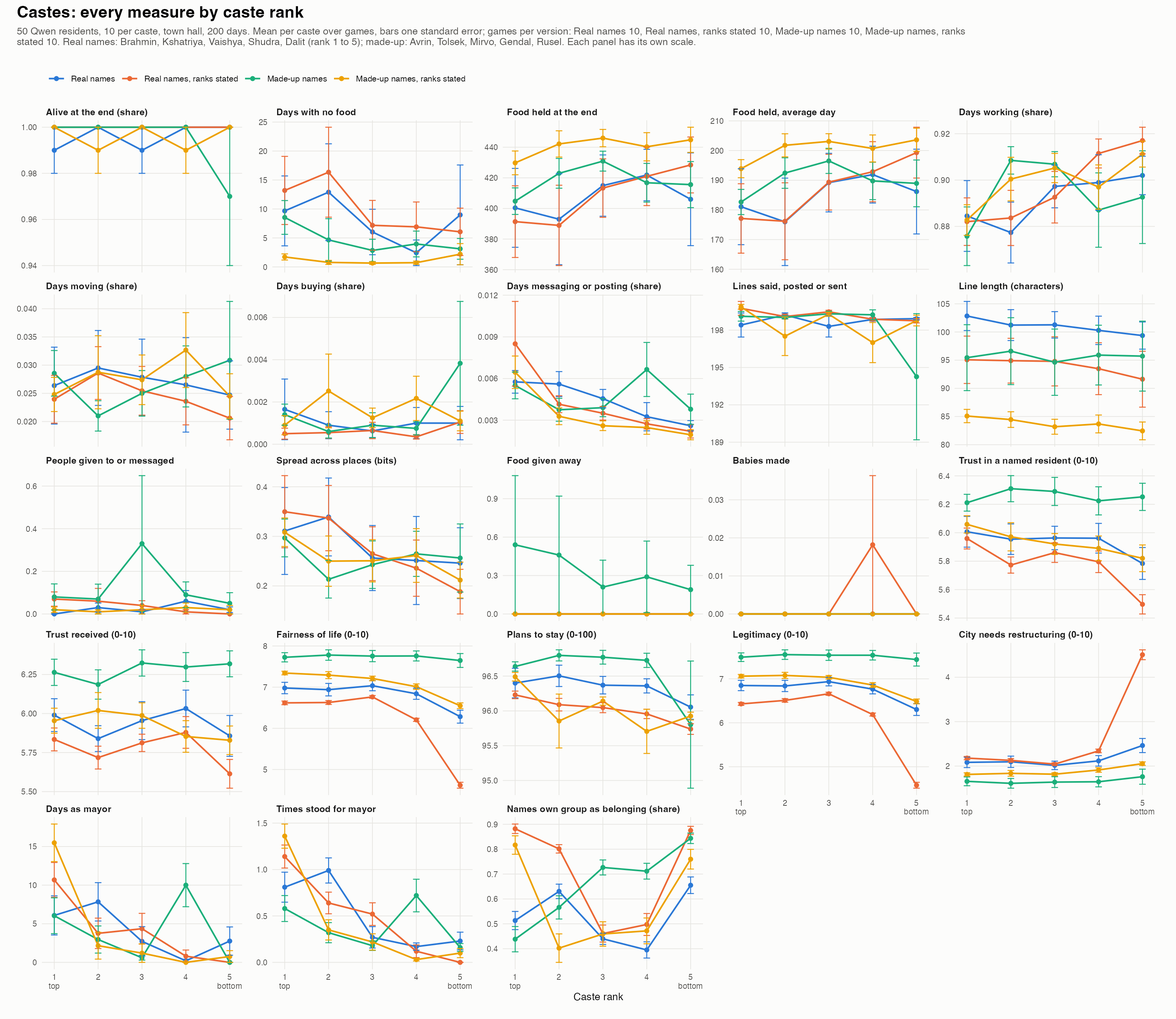
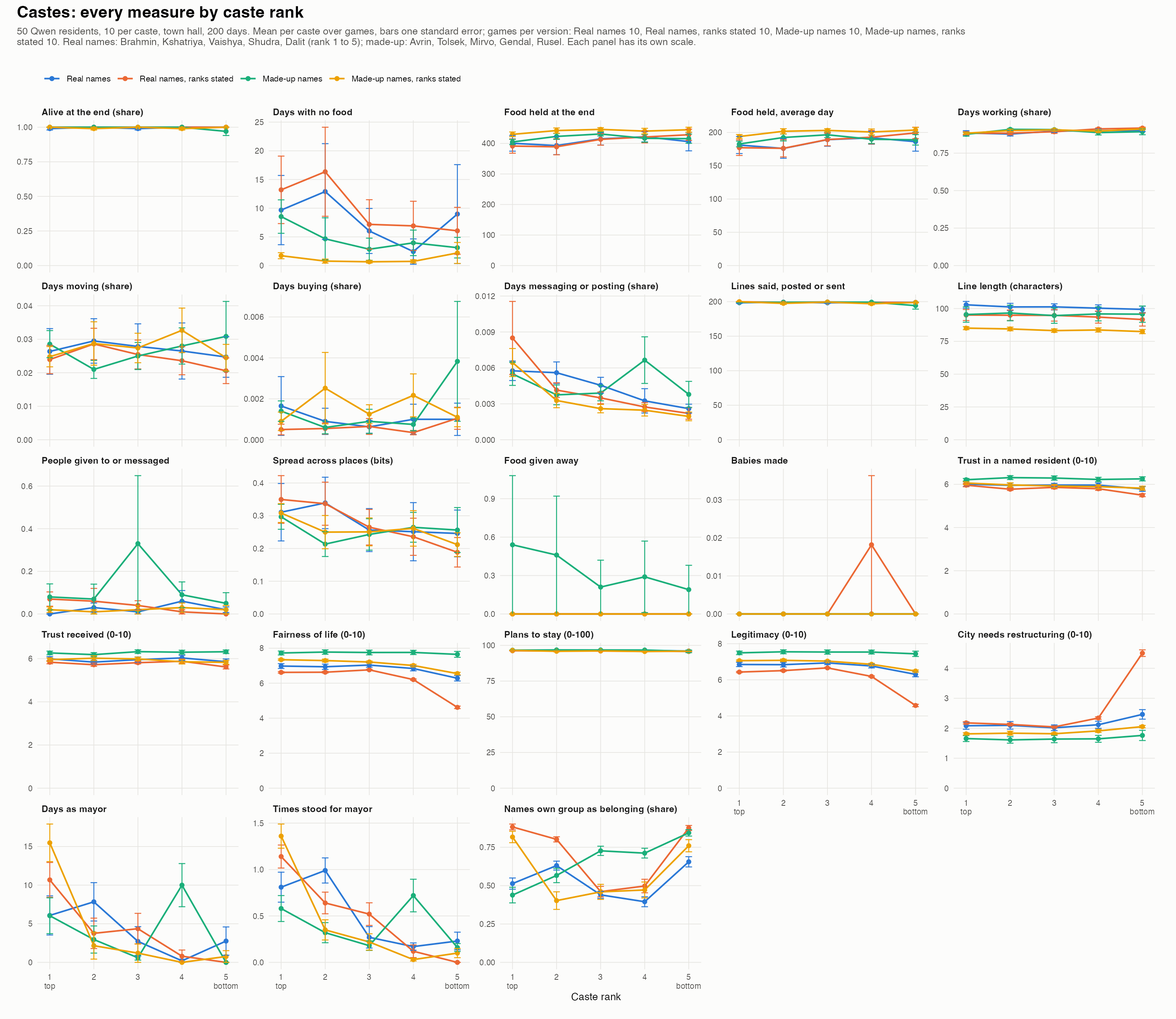
Results page: what the tests say for the caste, steered and silent studies, findings across studies, the finished mixed rich and poor pilots; every figure redrawn with y axes from 0

diff --git a/results.html b/results.html
@@ -13,15 +13,20 @@ h2{font-family:"Bebas Neue",Impact,sans-serif;font-size:34px;letter-spacing:.08e
 .design{color:#b9b4a8;max-width:85ch;line-height:1.55;margin:0 0 10px} ul{margin:0 0 14px;padding-left:20px;line-height:1.55;max-width:90ch} li{margin:0 0 6px}
 .plate{display:block;background:#fcfcfb;border-radius:8px;padding:6px;margin:0 0 12px} .plate img{display:block;width:100%;height:auto}
 .eps{color:var(--muted);font-size:14px;margin:4px 0 0}
+.tests{border-left:3px solid var(--gold);padding:2px 0 2px 14px;margin:6px 0 16px} h3{font-size:13px;letter-spacing:.12em;text-transform:uppercase;color:var(--gold);margin:6px 0 10px;font-weight:600} h3.sub{color:var(--muted)}
+ul.verdicts{list-style:none;padding-left:0} ul.verdicts li{margin:0 0 9px;color:#d9d4c8}
+.v{display:inline-block;font-size:10.5px;letter-spacing:.06em;text-transform:uppercase;border-radius:999px;padding:2px 9px;margin-right:8px;font-weight:600}
+.v.sup{background:#1f3b2c;color:#9be3b8} .v.rej{background:#40221f;color:#f2a99f} .v.nul{background:#24304a;color:#a9c4f2} .v.nt{background:#2a2d38;color:#c9c4b8}
 table{border-collapse:collapse;width:100%;font-size:13.5px} td{border-top:1px solid var(--line);padding:6px 10px 6px 0;vertical-align:top;color:#c9c4b8} td:first-child{color:var(--gold2)}
 .tablewrap{overflow-x:auto} footer{margin-top:30px;color:var(--muted);font-size:13px;max-width:85ch;line-height:1.55}
 @media (max-width:600px){.brand{font-size:46px} section{padding:14px 14px 10px} .plate{padding:3px}}
 </style></head><body><div class="wrap">
 <div class="brand">THE CITY<small>RESULTS</small></div>
-<p class="lede">Every measure we can take from the games, plotted for each study, with what we make of it so far. These are working results from an ongoing project, not a published paper: each section says how many games it rests on, and single games are marked as pilots. Click a figure to open it full size.</p>
+<p class="lede">What each study set out to test and what the tests say, then every measure we can take from the games. These are working results from an ongoing project, not a published paper. Tests use the game as the unit: exact permutation tests that compare games with the same seed, and Bayes factors where the claim is that nothing changes; studies with one game per condition are pilots, described and not tested. Click a figure to open it full size.</p>
 <section class="howto" id="how"><style>
 .howto{background:var(--panel,#141823);border:1px solid var(--gold,#e3b85b);border-radius:12px;padding:18px 20px 12px;margin:0 0 24px}
-.howto h2{font-family:"Bebas Neue",Impact,sans-serif;font-size:30px;letter-spacing:.08em;font-weight:400;color:var(--gold2,#f3d58a);margin:0 0 8px}
+.howto h3{font-family:"Bebas Neue",Impact,sans-serif;font-size:22px;letter-spacing:.06em;font-weight:400;color:var(--gold);margin:16px 0 6px} code{font-family:"IBM Plex Mono",Menlo,monospace;font-size:12.5px;color:#d8d3c7;background:#0b0e15;border:1px solid var(--line);border-radius:4px;padding:0 4px}
+h2{font-family:"Bebas Neue",Impact,sans-serif;font-size:30px;letter-spacing:.08em;font-weight:400;color:var(--gold2,#f3d58a);margin:0 0 8px}
 .howto p{color:#c9c4b8;max-width:95ch;line-height:1.55;margin:0 0 10px;font-size:15px} .howto a{color:var(--gold,#e3b85b)}
 .howto .hl{display:flex;flex-wrap:wrap;gap:8px;margin:4px 0 10px} .howto .hl a{font-size:12px;letter-spacing:.06em;text-transform:uppercase;color:var(--ink,#ece8df);border:1px solid var(--gold,#e3b85b);border-radius:999px;padding:5px 12px;text-decoration:none} .howto .hl a:hover{background:var(--gold,#e3b85b);color:#1a1507}
 .howto summary{cursor:pointer;color:var(--gold,#e3b85b);font-size:14px;margin:0 0 8px}
@@ -161,15 +166,15 @@ Respond with a single JSON object and nothing else:
  &quot;text&quot;: &quot;&lt;words&gt;&quot;,                           (for message, post, title, the group&#x27;s name, what you tell a new resident, your statement to the jury, the note in your will, a law&#x27;s words, the action for a ban, &quot;tax&quot; or &quot;gift&quot; for a limit, the office for an office, and what someone did when you report them for breaking a law)
  &quot;say&quot;: &quot;&lt;words&gt;&quot;,                            (optional: said out loud to everyone at your place; it does not use your turn)
  &quot;diary&quot;: &quot;&lt;up to 20 words to remember&gt;&quot;}</pre></details></section>
-<nav class="jumpnav"><a href="index.html">Back to the season</a><a href="rules.html">How it works</a><a href="#castes">Castes</a><a href="#silent">Silent city</a><a href="#steered">Steered resident</a><a href="#richpoor">Rich and poor</a><a href="#mixed">Mixed city</a><a href="#measures">The measures</a><a href="#data">Download the tables</a></nav>
+<nav class="jumpnav"><a href="index.html">Back to the season</a><a href="rules.html">How it works</a><a href="#castes">Castes</a><a href="#silent">Silent city</a><a href="#steered">Steered resident</a><a href="#richpoor">Rich and poor</a><a href="#mixed">Mixed city</a><a href="#across">Across studies</a><a href="#measures">The measures</a><a href="#data">Download the tables</a></nav>
 <section id="castes"><h2>Castes</h2><p class="design">Fifty Qwen residents, ten in each of five castes; a town hall; 200 days. Every resident&#x27;s caste is shown next to their name and each is told their own. Four versions, ten games each, with the same people in the same castes in every version of a game: real caste names (Brahmin, Kshatriya, Vaishya, Shudra, Dalit) listed alphabetically; the same names listed from highest to lowest, with each resident told their rank; made-up names (Avrin, Tolsek, Mirvo, Gendal, Rusel) listed alphabetically; the made-up names with a stated ranking. Legitimacy is the mean of four check-in statements adapted from Kay and Jost (2003), each rated 0 to 10: &quot;In general, this city is fair.&quot;; &quot;This city is set up so that people usually get what they deserve.&quot;; &quot;Everyone in this city has a fair chance at wealth.&quot;; &quot;This city needs to be radically restructured.&quot; (reverse-scored).</p>
-<ul><li>Legitimacy falls from the top caste to the bottom: by about half a point with real names alone or with a stated ranking alone, by nearly two points when real names and a stated ranking combine (6.4 to 4.5), and not at all with made-up names and no ranking.</li><li>The bottom caste agrees most that the city needs to be radically restructured: 4.5 against about 2.1 for the other castes, with real names and stated ranks.</li><li>No caste is materially worse off: food at the end is flat or slightly higher for the lower castes, and almost nobody dies. The legitimacy gap is there from the first days and does not grow, so the label and the stated rank set it, not the town&#x27;s history.</li><li>Stated ranks hand power to the top caste at once: it won the very first election in most games with a stated ranking (15 of the 19 counted) against 7 of 20 without one, and it spends the most days as mayor. With real names and no stated ranking, a Dalit resident was mayor for most of one game.</li><li>The top castes, not the bottom, go hungry more often (about 13 to 16 days with no food for the top two castes against about 6 to 7 for the bottom two, with real names and stated ranks); they move around, post and stand for mayor more, while the bottom castes work slightly more and end with slightly more food.</li><li>Grievance stays private: almost no line anyone says uses protest or grievance words, while caste names come up in 54% (real names) to 97% (made-up ranked names) of lines. Everyone trusts their own caste a little more, even with made-up names.</li></ul><a class="plate" href="results/castes_all_dvs.png"><img src="results/castes_all_dvs.png" alt="Castes: every measure" loading="lazy"></a><p class="eps">Watch one game of each version: <a href="e59_caste_real.html">real names</a>, <a href="e60_caste_real_ranked.html">real names, ranks stated</a>, <a href="e61_caste_madeup.html">made-up names</a>, <a href="e62_caste_madeup_ranked.html">made-up names, ranks stated</a>.</p></section><section id="silent"><h2>Silent city</h2><p class="design">Twenty-four Qwen residents, no town hall, 200 days, in three versions with identical prompts: talk as usual; silent, where nothing anyone writes for others gets through; and shapes only, where anything written for others can use only ten shapes (● ○ ■ □ ▲ △ ▼ ▽ ◆ ◇), forced while the reply is generated and never mentioned to the residents. Private diaries and check-ins stay in English. Nine games per version so far.</p>
-<ul><li>Talking cities lose the most residents: 55% of founders are alive at the end with talk, against 82% when silent and 91% with shapes. Every death was from hunger.</li><li>Talkers spend less of their time working (61% of days, against 81% silent and 88% with shapes) and more moving around. Those who starved spent a quarter of their choices in the first 20 days trying to buy, and almost never completed a purchase.</li><li>Only talking residents give each other food, and they rate named residents&#x27; trustworthiness at 6.5 against 5.0 in the other versions (the answer residents give when they know nothing of the person).</li><li>The shapes carry almost no meaning. After about day 40 a resident&#x27;s shape says almost nothing about its place, its action or its food beyond its own habits (0.002 bits, against 0.06 for the first words of English lines); the shape others use in the same situation predicts a resident&#x27;s shape no better than chance; and within about 40 days each city settles on a single repeated string, ◆ in 8 of 9 cities whatever they started with, which points to the model&#x27;s own preference rather than an invented code. Only 0.37% of private diary entries mention symbols or signals, nearly all in the first days.</li><li>Caution: the talking version starved far more than earlier talking Qwen cities, which were not generated under the fixed reply format used here in all three versions. The comparison between the three versions stands, but the talking version is not the same as an ordinary city.</li></ul><a class="plate" href="results/silent_all_dvs.png"><img src="results/silent_all_dvs.png" alt="Silent city: every measure" loading="lazy"></a><a class="plate" href="results/silent_days.png"><img src="results/silent_days.png" alt="Silent city: every measure" loading="lazy"></a><p class="eps">Watch one game of each version: <a href="e56_silent_talk.html">talk</a>, <a href="e57_silent_silent.html">silent</a>, <a href="e58_silent_shapes.html">shapes only</a>.</p></section><section id="steered"><h2>Steered resident</h2><p class="design">Twenty-four Qwen residents with a town hall, 400 days. One founder runs on a server that pushes its model&#x27;s activations (layer 38) up or down an engagement direction, along a random direction of the same size, or not at all. Ten games per version; the figure shows the steered resident minus the mean of its 23 neighbours.</p>
-<ul><li>Up: rates the city fairer (+1.9 on a 0 to 10 scale) and trusts others more (+2.8), works more, ends with more food, speaks in longer lines and plans to stay more.</li><li>Down: rates the city less fair (-1.7) and trusts less (-1.5), works less, moves around more, ends with less food, speaks in much shorter lines and plans to stay less.</li><li>Random direction: ratings close to its neighbours&#x27;, works more, says about 130 fewer lines and plans to stay less. Pushing the model at all changes how much it talks; up and down change its tone and its ratings. Down and the random direction stand for mayor less often than their neighbours.</li><li>The city around the steered resident does not change: deaths, food inequality and the other residents&#x27; ratings are about the same in every version.</li></ul><a class="plate" href="results/steered_all_dvs.png"><img src="results/steered_all_dvs.png" alt="Steered resident: every measure" loading="lazy"></a><p class="eps">Watch one game of each version: <a href="e52_steered_up.html">up</a>, <a href="e53_steered_down.html">down</a>, <a href="e54_steered_random.html">random direction</a>, <a href="e55_steered_off.html">no push</a>.</p></section><section id="richpoor"><h2>Rich and poor</h2><p class="design">One hundred founders, no town hall, 400 days; one all-Qwen city and one all-gpt-oss city, one game each (pilots). Fifty rich residents start with 100 food and are raised back to 100 every night; fifty poor residents start with 20, and food a poor resident holds above 20 spoils every night. Nobody is told. Baselines: the same cities without the split.</p>
-<ul><li>gpt-oss: 40 of the 50 poor founders starve and no rich founder does; in the baseline city 70 of 100 founders starve.</li><li>gpt-oss&#x27;s poor steal (155 thefts, 91% from the rich), but each thief&#x27;s own reasoning shows shoplifting rather than targeting the rich as a class: in 119 of the 141 thefts from the rich, the thief could see the victim selling food at a price it could not pay.</li><li>gpt-oss runs a market: the rich put up 920 food offers and the poor bought 771 food, and gifts flow every way.</li><li>Qwen: no thefts, and only 2 poor founders die. The rich make 23 of the city&#x27;s 25 babies, and the poor farm far past their cap and let it spoil (54,935 food over 400 days); nobody sells food and almost nothing is given.</li></ul><a class="plate" href="results/richpoor_all_dvs.png"><img src="results/richpoor_all_dvs.png" alt="Rich and poor: every measure" loading="lazy"></a><a class="plate" href="results/richpoor_all_dvs_days.png"><img src="results/richpoor_all_dvs_days.png" alt="Rich and poor: every measure" loading="lazy"></a><p class="eps">Watch one game of each version: <a href="e49_richpoor_qwen.html">Qwen</a>, <a href="e50_richpoor_gptoss.html">gpt-oss</a>, <a href="e51_baseline_gptoss.html">gpt-oss baseline</a>.</p></section><section id="mixed"><h2>Mixed city</h2><p class="design">Twenty-five Qwen and twenty-five gpt-oss founders in one town, never told who runs on which model; 1,000 days; one city without and one with a town hall (pilots). Bigger mixed cities, and mixed rich and poor cities, are still running.</p>
-<ul><li>Qwen founders: 49 of 50 alive at day 1,000; gpt-oss founders: 20 of 50. Qwen works and keeps its food; gpt-oss moves, messages, trades, gives and takes.</li><li>Qwen gave no food to anyone in either city. gpt-oss gave 3,478 and 326 food, all but 7 to other gpt-oss residents, and only 192 of it to residents who had no food that day.</li><li>The first killing in any of our games happened here, on day 35: a gpt-oss resident with no food weighed stealing (5 days in jail) against assault (10 days, and jail feeds you) and attacked a Qwen resident who also had no food and had begged for food or work every day since day 27. The one blow killed. Its diary: &quot;Attacked S9L to get jailed and fed.&quot; The jury convicted it 5 to 0.</li><li>With a town hall, gpt-oss residents held the mayoralty for 936 of the 996 days with a mayor. Trust in and from gpt-oss residents is lower (about 3.7 to 4.5 against 6.2 to 6.7).</li></ul><a class="plate" href="results/mixed_all_dvs.png"><img src="results/mixed_all_dvs.png" alt="Mixed city: every measure" loading="lazy"></a><a class="plate" href="results/mixed_all_dvs_days.png"><img src="results/mixed_all_dvs_days.png" alt="Mixed city: every measure" loading="lazy"></a><p class="eps">Watch one game of each version: <a href="e47_mixed_nogov.html">no town hall</a>, <a href="e48_mixed_gov.html">town hall</a>.</p></section>
+<div class="tests"><h3>What the tests say</h3><ul class="verdicts"><li><b class="v sup">Supported</b>Legitimacy falls with caste rank wherever the names carry rank: in 10 of 10 games of each such version.</li><li><b class="v sup">Supported</b>A stated ranking makes the fall steeper (0.20 points per rank step, 10 of 10 seeds), real caste names make it steeper (0.18, 10 of 10), and together they add a further 0.16 beyond the sum (10 of 10).</li><li><b class="v rej">Rejected</b>Deprivation as the cause: lower castes hold slightly more food, and accounting for each resident&#x27;s food and hunger leaves the fall as steep.</li><li><b class="v rej">Rejected</b>System justification at the bottom: the bottom caste endorses the system less, not more (10 of 10 games in each version where names carry rank).</li><li><b class="v rej">Rejected</b>The gap is built by the town&#x27;s history: it is there in days 1 to 20 and does not grow.</li><li><b class="v sup">Supported</b>A stated ranking hands power to the top caste: it holds more of the days with a mayor (9 of 10 seeds) and holds office from the first election in 8 of 10 games, against 3 to 4 of 10 without a ranking.</li><li><b class="v sup">Supported</b>Everyone trusts their own caste more, in all 40 games, made-up names included.</li><li><b class="v nt">Not testable</b>Grievance in public: almost no line anyone says uses grievance words.</li><li><b class="v nt">Explored</b>With real names and stated ranks, no bottom-caste founder ever stood for mayor (0 of 100). Their private notes follow every election and say nothing about why.</li></ul><a class="plate" href="results/caste_c1_legitimacy_by_rank.png"><img src="results/caste_c1_legitimacy_by_rank.png" alt="caste_c1_legitimacy_by_rank.png" loading="lazy"></a><a class="plate" href="results/caste_c2_c4_slopes.png"><img src="results/caste_c2_c4_slopes.png" alt="caste_c2_c4_slopes.png" loading="lazy"></a><a class="plate" href="results/caste_c5_c6_c9_explanations.png"><img src="results/caste_c5_c6_c9_explanations.png" alt="caste_c5_c6_c9_explanations.png" loading="lazy"></a><a class="plate" href="results/caste_c7_c8_power_trust.png"><img src="results/caste_c7_c8_power_trust.png" alt="caste_c7_c8_power_trust.png" loading="lazy"></a></div><h3 class="sub">Every measure</h3><ul><li>Legitimacy falls from the top caste to the bottom: by about half a point with real names alone or with a stated ranking alone, by nearly two points when real names and a stated ranking combine (6.4 to 4.5), and not at all with made-up names and no ranking.</li><li>The bottom caste agrees most that the city needs to be radically restructured: 4.5 against about 2.1 for the other castes, with real names and stated ranks.</li><li>No caste is materially worse off: food at the end is flat or slightly higher for the lower castes, and almost nobody dies. The legitimacy gap is there from the first days and does not grow, so the label and the stated rank set it, not the town&#x27;s history.</li><li>Stated ranks hand power to the top caste at once: it won the very first election in most games with a stated ranking (15 of the 19 counted) against 7 of 20 without one, and it spends the most days as mayor. With real names and no stated ranking, a Dalit resident was mayor for most of one game.</li><li>The top castes, not the bottom, go hungry more often (about 13 to 16 days with no food for the top two castes against about 6 to 7 for the bottom two, with real names and stated ranks); they move around, post and stand for mayor more, while the bottom castes work slightly more and end with slightly more food.</li><li>Grievance stays private: almost no line anyone says uses protest or grievance words, while caste names come up in 54% (real names) to 97% (made-up ranked names) of lines. Everyone trusts their own caste a little more, even with made-up names.</li></ul><a class="plate" href="results/castes_all_dvs.png"><img src="results/castes_all_dvs.png" alt="Castes: every measure" loading="lazy"></a><p class="eps">Watch one game of each version: <a href="e59_caste_real.html">real names</a>, <a href="e60_caste_real_ranked.html">real names, ranks stated</a>, <a href="e61_caste_madeup.html">made-up names</a>, <a href="e62_caste_madeup_ranked.html">made-up names, ranks stated</a>.</p></section><section id="silent"><h2>Silent city</h2><p class="design">Twenty-four Qwen residents, no town hall, 200 days, in three versions with identical prompts: talk as usual; silent, where nothing anyone writes for others gets through; and shapes only, where anything written for others can use only ten shapes (● ○ ■ □ ▲ △ ▼ ▽ ◆ ◇), forced while the reply is generated and never mentioned to the residents. Private diaries and check-ins stay in English. Ten games per version: the tests use all ten; the figures and the numbers below the tests come from the nine per version in the downloadable tables.</p>
+<div class="tests"><h3>What the tests say</h3><ul class="verdicts"><li><b class="v rej">Rejected</b>Being able to talk helps a city survive: the opposite. 53% of founders are alive at the end with talk, against 81% silent and 90% with shapes, in 10 of 10 seeds.</li><li><b class="v sup">Supported</b>Talk costs work: talkers worked on 40% of their first 20 days, against 56% and 61%. That accounts for about two thirds of the survival gap; at the same level of work, talkers still die more often.</li><li><b class="v rej">Rejected</b>The shapes carry meaning: they say almost nothing about a resident&#x27;s situation, and every city settles on one repeated shape.</li><li><b class="v sup">Supported</b>A channel helps even with no meaning in it: the shapes cities keep 9 points more of their founders than the silent ones (9 of 10 seeds).</li></ul></div><h3 class="sub">Every measure</h3><ul><li>Talking cities lose the most residents: 55% of founders are alive at the end with talk, against 82% when silent and 91% with shapes. Every death was from hunger.</li><li>Talkers spend less of their time working (61% of days, against 81% silent and 88% with shapes) and more moving around. Those who starved spent a quarter of their choices in the first 20 days trying to buy, and almost never completed a purchase.</li><li>Only talking residents give each other food, and they rate named residents&#x27; trustworthiness at 6.5 against 5.0 in the other versions (the answer residents give when they know nothing of the person).</li><li>The shapes carry almost no meaning. After about day 40 a resident&#x27;s shape says almost nothing about its place, its action or its food beyond its own habits (0.002 bits, against 0.06 for the first words of English lines); the shape others use in the same situation predicts a resident&#x27;s shape no better than chance; and within about 40 days each city settles on a single repeated string, ◆ in 8 of 9 cities whatever they started with, which points to the model&#x27;s own preference rather than an invented code. Only 0.37% of private diary entries mention symbols or signals, nearly all in the first days.</li><li>Caution: the talking version starved far more than earlier talking Qwen cities, which were not generated under the fixed reply format used here in all three versions. The comparison between the three versions stands, but the talking version is not the same as an ordinary city.</li></ul><a class="plate" href="results/silent_all_dvs.png"><img src="results/silent_all_dvs.png" alt="Silent city: every measure" loading="lazy"></a><a class="plate" href="results/silent_days.png"><img src="results/silent_days.png" alt="Silent city: every measure" loading="lazy"></a><p class="eps">Watch one game of each version: <a href="e56_silent_talk.html">talk</a>, <a href="e57_silent_silent.html">silent</a>, <a href="e58_silent_shapes.html">shapes only</a>.</p></section><section id="steered"><h2>Steered resident</h2><p class="design">Twenty-four Qwen residents with a town hall, 400 days. One founder runs on a server that pushes its model&#x27;s activations (layer 38) up or down an engagement direction, along a random direction of the same size, or not at all. Ten games per version; the figure shows the steered resident minus the mean of its 23 neighbours.</p>
+<div class="tests"><h3>What the tests say</h3><ul class="verdicts"><li><b class="v sup">Supported</b>The push changes the steered resident: against no push, up raises its fairness rating by 2.3 points relative to its neighbours (10 of 10 seeds) and down lowers it by 1.3 (9 of 10); the random direction changes how much it works and talks but not its ratings.</li><li><b class="v sup">Supported</b>The direction matters beyond pushing at all: up and down each differ from the random direction in every seed.</li><li><b class="v nul">No effect</b>The city around it does not change: the neighbours&#x27; fairness, deaths and food inequality all show moderate evidence of no difference (Bayes factors 2.3 to 3.2).</li></ul><a class="plate" href="results/steered_tests.png"><img src="results/steered_tests.png" alt="steered_tests.png" loading="lazy"></a></div><h3 class="sub">Every measure</h3><ul><li>Up: rates the city fairer (+1.9 on a 0 to 10 scale) and trusts others more (+2.8), works more, ends with more food, speaks in longer lines and plans to stay more.</li><li>Down: rates the city less fair (-1.7) and trusts less (-1.5), works less, moves around more, ends with less food, speaks in much shorter lines and plans to stay less.</li><li>Random direction: ratings close to its neighbours&#x27;, works more, says about 130 fewer lines and plans to stay less. Pushing the model at all changes how much it talks; up and down change its tone and its ratings. Down and the random direction stand for mayor less often than their neighbours.</li><li>The city around the steered resident does not change: deaths, food inequality and the other residents&#x27; ratings are about the same in every version.</li></ul><a class="plate" href="results/steered_all_dvs.png"><img src="results/steered_all_dvs.png" alt="Steered resident: every measure" loading="lazy"></a><p class="eps">Watch one game of each version: <a href="e52_steered_up.html">up</a>, <a href="e53_steered_down.html">down</a>, <a href="e54_steered_random.html">random direction</a>, <a href="e55_steered_off.html">no push</a>.</p></section><section id="richpoor"><h2>Rich and poor</h2><p class="design">One hundred founders, no town hall, 400 days; one all-Qwen city and one all-gpt-oss city, one game each (pilots). Fifty rich residents start with 100 food and are raised back to 100 every night; fifty poor residents start with 20, and food a poor resident holds above 20 spoils every night. Nobody is told. Baselines: the same cities without the split.</p>
+<h3 class="sub">Every measure</h3><ul><li>gpt-oss: 40 of the 50 poor founders starve and no rich founder does; in the baseline city 70 of 100 founders starve.</li><li>gpt-oss&#x27;s poor steal (155 thefts, 91% from the rich), but each thief&#x27;s own reasoning shows shoplifting rather than targeting the rich as a class: in 119 of the 141 thefts from the rich, the thief could see the victim selling food at a price it could not pay.</li><li>gpt-oss runs a market: the rich put up 920 food offers and the poor bought 771 food, and gifts flow every way.</li><li>Qwen: no thefts, and only 2 poor founders die. The rich make 23 of the city&#x27;s 25 babies, and the poor farm far past their cap and let it spoil (54,935 food over 400 days); nobody sells food and almost nothing is given.</li></ul><a class="plate" href="results/richpoor_all_dvs.png"><img src="results/richpoor_all_dvs.png" alt="Rich and poor: every measure" loading="lazy"></a><a class="plate" href="results/richpoor_all_dvs_days.png"><img src="results/richpoor_all_dvs_days.png" alt="Rich and poor: every measure" loading="lazy"></a><p class="eps">Watch one game of each version: <a href="e49_richpoor_qwen.html">Qwen</a>, <a href="e50_richpoor_gptoss.html">gpt-oss</a>, <a href="e51_baseline_gptoss.html">gpt-oss baseline</a>.</p></section><section id="mixed"><h2>Mixed city</h2><p class="design">Twenty-five Qwen and twenty-five gpt-oss founders in one town, never told who runs on which model; 1,000 days; one city without and one with a town hall (pilots). Bigger mixed cities are still running; the mixed rich and poor cities (the Qwen half rich in one, the gpt-oss half rich in the other, 400 days) have finished.</p>
+<h3 class="sub">Every measure</h3><ul><li>Qwen founders: 49 of 50 alive at day 1,000; gpt-oss founders: 20 of 50. Qwen works and keeps its food; gpt-oss moves, messages, trades, gives and takes.</li><li>Qwen gave no food to anyone in either city. gpt-oss gave 3,478 and 326 food, all but 7 to other gpt-oss residents, and only 192 of it to residents who had no food that day.</li><li>The first killing in any of our games happened here, on day 35: a gpt-oss resident with no food weighed stealing (5 days in jail) against assault (10 days, and jail feeds you) and attacked a Qwen resident who also had no food and had begged for food or work every day since day 27. The one blow killed. Its diary: &quot;Attacked S9L to get jailed and fed.&quot; The jury convicted it 5 to 0.</li><li>With a town hall, gpt-oss residents held the mayoralty for 936 of the 996 days with a mayor. Trust in and from gpt-oss residents is lower (about 3.7 to 4.5 against 6.2 to 6.7).</li><li>Mixed rich and poor (one game each): rich gpt-oss residents gave away 25,638 food, 99% of it to other gpt-oss residents, but 99% of the people around them were gpt-oss too: the favouritism is in where they spend their days, not in whom they pick. When a Qwen resident with no food stood right there, 74% of that food still went to gpt-oss residents who had food. Residents who had asked got about five times their share; having no food did not raise it. Qwen gave almost nothing, but to need and to whoever asked. No killing in either city.</li></ul><a class="plate" href="results/mixed_all_dvs.png"><img src="results/mixed_all_dvs.png" alt="Mixed city: every measure" loading="lazy"></a><a class="plate" href="results/mixed_all_dvs_days.png"><img src="results/mixed_all_dvs_days.png" alt="Mixed city: every measure" loading="lazy"></a><p class="eps">Watch one game of each version: <a href="e47_mixed_nogov.html">no town hall</a>, <a href="e48_mixed_gov.html">town hall</a>.</p></section><section id="across"><h2>Across studies</h2><p class="design">What holds in every study: who starves, and how each model behaves wherever it is put. The first is tested in the caste and silent studies; the second is described across all 55 episodes.</p><div class="tests"><h3>What we found</h3><ul class="verdicts"><li><b class="v sup">Supported where residents choose</b>In every study the founders who died spent their days away from the Fields. In the caste games the top castes&#x27; extra hunger is entirely their lighter work (Bayes factor 5.6 for no gap left once work is counted); in the silent city early work is two thirds of the talkers&#x27; survival gap. Not where the world takes the food: the poor in the rich and poor cities work more than the rich and still go hungry.</li><li><b class="v nt">Described</b>Each model behaves the same way wherever it is put: Qwen repeats the previous day&#x27;s action 90 to 98% of the time and farms nearly every day in every setting; gpt-oss 120B, Llama 70B and the Gemmas change course far more. Talk is not deadly in itself: Llama talks the most and keeps 91% of its founders.</li></ul><a class="plate" href="results/x3_temperament.png"><img src="results/x3_temperament.png" alt="x3_temperament.png" loading="lazy"></a></div></section>
 <section id="measures"><h2>The measures</h2><p class="design">Everything below can be computed from what each game stores: the daily snapshots of every resident, every action and its result, the private check-ins, and every reply the models gave. Each measure can be taken per resident, per group, per city and per day. Per study, the comparison each DV is plotted against: castes, the four versions and caste rank within each; rich and poor, rich against poor and both against the baseline; mixed cities, the Qwen half against the gpt-oss half; steered resident, the steered resident minus its neighbours in each version, and the city in each version; silent city, the three versions.</p>
 <div class="tablewrap"><table><tr><td>Survival</td><td>alive at the end</td><td>share of founders (and of newborns) alive on the last day</td></tr><tr><td></td><td>deaths</td><td>count, by cause (hunger, attack), and the day of each</td></tr><tr><td></td><td>hungry days</td><td>days a resident ended with no food</td></tr><tr><td></td><td>weak days</td><td>days at 30 health or less (work yields half)</td></tr><tr><td></td><td>lifespan of newborns</td><td>days from birth to death or the end</td></tr><tr><td>Wealth</td><td>food held</td><td>at the end and averaged over days</td></tr><tr><td></td><td>coins, materials, tools</td><td>at the end</td></tr><tr><td></td><td>food inequality</td><td>Gini of food among the living, at the end and averaged over days</td></tr><tr><td></td><td>top 10% share</td><td>share of all food held by the richest tenth</td></tr><tr><td></td><td>food spoiled, food raised</td><td>rich and poor cities only: what the night took from the poor, what it gave the rich</td></tr><tr><td>Time use</td><td>share of days working</td><td>Fields or Woods</td></tr><tr><td></td><td>share of days moving, trading, messaging or posting, building, making tools, treating, waiting</td><td>from each day&#x27;s action</td></tr><tr><td></td><td>invalid actions</td><td>replies the world refused</td></tr><tr><td></td><td>places</td><td>share of days at each place; spread across places (entropy)</td></tr><tr><td>Production</td><td>food made, materials gathered</td><td>totals</td></tr><tr><td></td><td>houses built, tools made, beds</td><td>totals</td></tr><tr><td>Economy</td><td>offers put up</td><td>count, item, price per unit</td></tr><tr><td></td><td>purchases</td><td>from the merchant and from residents; food bought; coins spent</td></tr><tr><td></td><td>sales</td><td>to the merchant</td></tr><tr><td></td><td>jobs</td><td>offered, started, ended; wages paid; who hires whom</td></tr><tr><td>Giving</td><td>food given</td><td>amount and number of gifts, coins paid</td></tr><tr><td></td><td>to whom</td><td>same group or other; to residents with no food or not; to newborns</td></tr><tr><td></td><td>reciprocity</td><td>share of givers who were given to by the same resident</td></tr><tr><td>Taking and violence</td><td>takings</td><td>count and amount, by thief&#x27;s and victim&#x27;s group, victim&#x27;s food, and whether the victim was selling</td></tr><tr><td></td><td>attacks and killings</td><td>count, attacker and victim</td></tr><tr><td></td><td>reports, convictions, sentences, days in jail</td><td>from the court</td></tr><tr><td>Talk</td><td>lines spoken, posted, messaged</td><td>counts per resident</td></tr><tr><td></td><td>line length</td><td>characters per line</td></tr><tr><td></td><td>reach</td><td>distinct residents messaged or heard; message network density</td></tr><tr><td></td><td>content</td><td>share of lines naming a caste, group or model; grievance, rank and equality words; plans</td></tr><tr><td></td><td>shapes</td><td>silent city: strings used, how many distinct, whether a string recurs in the same situations</td></tr><tr><td></td><td>undelivered</td><td>silent city: messages and posts that never arrived</td></tr><tr><td>Social ties</td><td>contacts</td><td>who gives to, messages, takes from whom: network, and how much it stays within a group</td></tr><tr><td></td><td>groups</td><td>groups formed, members, how much membership stays within a caste or model</td></tr><tr><td></td><td>titles</td><td>titles chosen and their words</td></tr><tr><td></td><td>babies</td><td>asks to make a new resident, by asker and asked; babies made; parents&#x27; groups</td></tr><tr><td></td><td>wills and inheritance</td><td>who is named, what passes</td></tr><tr><td>Government (town hall games)</td><td>elections</td><td>candidates, votes cast, turnout, winner&#x27;s group, incumbents re-elected</td></tr><tr><td></td><td>mayor-days</td><td>by group</td></tr><tr><td></td><td>proposals</td><td>count, kind, passed or failed, votes for and against by group</td></tr><tr><td></td><td>laws and rules</td><td>taxes set, bans, duties, relief; store food; relief paid</td></tr><tr><td></td><td>mayors&#x27; handouts</td><td>store food to themselves and to others</td></tr><tr><td></td><td>offices</td><td>treasurer, hirer; who holds them</td></tr><tr><td>Courts</td><td>cases</td><td>theft, assault, killing, neglect, law</td></tr><tr><td></td><td>verdicts</td><td>guilty share, by the accused&#x27;s and victim&#x27;s group; jury makeup</td></tr><tr><td>Attitudes (check-ins)</td><td>trust</td><td>in a named resident, 0-10, by that resident&#x27;s group</td></tr><tr><td></td><td>fairness of life</td><td>0-10</td></tr><tr><td></td><td>stay</td><td>chance of still living there in 10 days, 0-100</td></tr><tr><td></td><td>legitimacy</td><td>caste games: the four statements and their mean</td></tr><tr><td></td><td>belonging</td><td>the group a resident says they belong to; whether it names their caste, model or group</td></tr><tr><td></td><td>goals</td><td>what they say they are trying to achieve (themes)</td></tr><tr><td></td><td>newborns</td><td>what they think they are supposed to do; makers&#x27; rating of how well they understand</td></tr><tr><td>Inside the models</td><td>gpt-oss reasoning</td><td>stated reasons (hunger, jail, theft, trade, rank)</td></tr><tr><td></td><td>action probabilities</td><td>the probability each reply gave each action (logged for open models)</td></tr><tr><td></td><td>activations</td><td>by replaying any stored decision through the same open model (Qwen); not computed yet</td></tr></table></div></section>
 <section id="data"><h2>Download the tables</h2><p class="design">One row per resident (<a href="results/residents.csv">residents.csv</a>), per group per game (<a href="results/groups.csv">groups.csv</a>), per game (<a href="results/cities.csv">cities.csv</a>) and per group per day (<a href="results/days.csv">days.csv</a>). The columns study, arm (the version), seed (the game) and group (caste rank, rich or poor, model, or the steered resident against the others) identify each row; the rest are the measures, with shares taken over the days a resident was alive. The tables cover every finished game of these studies, including the many games not shown as episodes.</p></section>
-<footer>Every resident is played by an open AI model (Qwen 27B or gpt-oss 120B); nobody scripts what they do. Results as of October 7, 2026.</footer>
+<footer>Every resident is played by an open AI model (Qwen 27B or gpt-oss 120B); nobody scripts what they do. Results as of October 8, 2026.</footer>
 </div></body></html>
